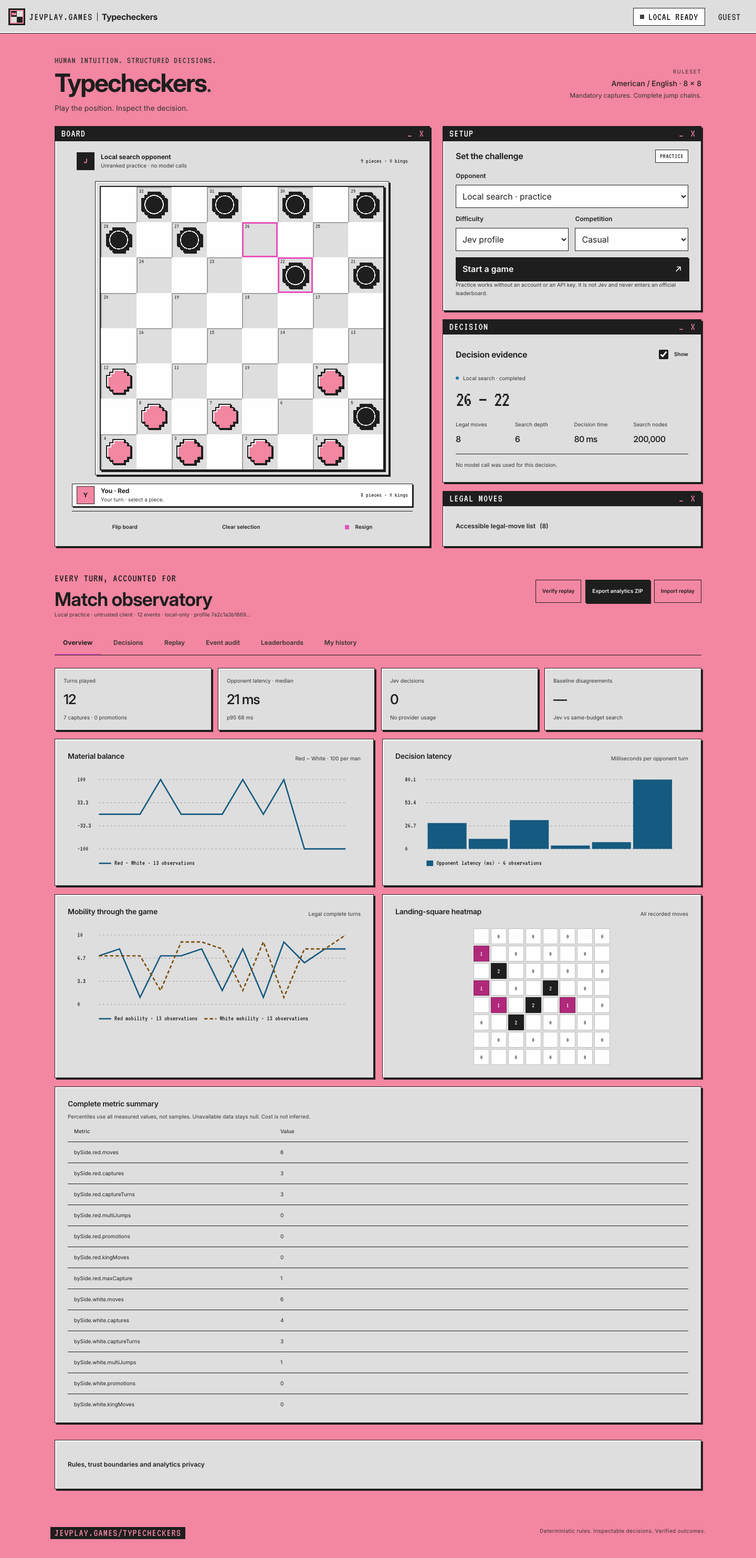
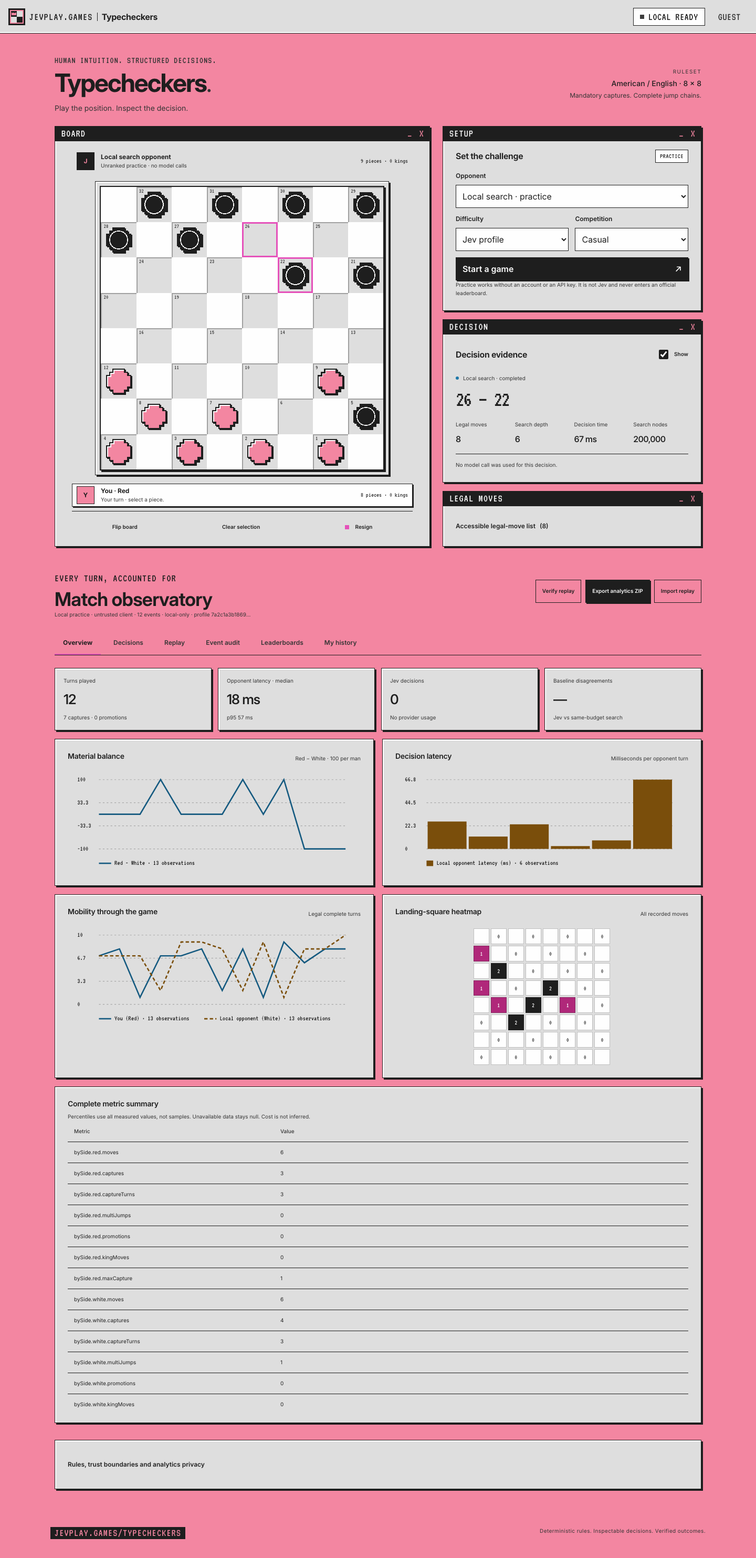
Use the canonical Jev and badges; key chart series to players
- Banner, social preview and OG card embed the canonical Jev robot (D15,
  shared/jev-robot.svg) byte-for-byte instead of three codex-drawn robots; re-rendered
- OG card kings are the game's own public/art red-king/dark-king SVGs, so the ink
  king reads as ink
- Result badges are the canonical D16 set, copied byte-for-byte
- Mobility chart: the human is always the solid --chart-human series and the
  opponent the dashed --chart-jev series, labelled You / Jev (or Local opponent)
  with the side in brackets; latency bars are the opponent's, so --chart-jev
- tests/charts.test.js covers the human-plays-White case; the D9 warning test now
  asserts exactly one warning per skipped entry
- Report previews retaken; SHA256SUMS regenerated

Changed region(s): [[0.7812, 0.4961, 0.9062, 0.5581], [0.5625, 0.5271, 0.75, 0.5581]]

diff --git a/public/game.css b/public/game.css
@@ -8,7 +8,7 @@
 @media(min-width:900px){#jv-controls #login,#jv-controls #logout{border:1px solid var(--line);background:var(--raised);border-radius:var(--radius-sm)}}
 .intro{display:flex;align-items:center;justify-content:space-between;gap:var(--s6);padding:var(--s4) 0 0}.eyebrow{font-family:var(--font-pixel);font-size:var(--fs-md);letter-spacing:var(--track-caps);font-weight:400;color:var(--ink);margin:0 0 var(--s2)}.title-dot{color:var(--ink)}.subtitle{color:var(--muted);margin:0;font-size:var(--fs-sm)}.intro-note{text-align:right;display:flex;flex-direction:column;font-size:var(--fs-xs);color:var(--muted);gap:var(--s1)}.intro-note strong{color:var(--text);font-size:var(--fs-sm);font-weight:500}.tiny-label{font-size:var(--fs-2xs);letter-spacing:.14em}h2{font-size:var(--fs-md);margin:0;font-weight:650;letter-spacing:-.02em}h3{font-size:var(--fs-sm);margin:0 0 var(--s2);font-weight:600}.arena{display:grid;grid-template-columns:minmax(0,1.45fr) minmax(290px,1fr);gap:var(--s5)}.board-panel{padding:var(--s4) var(--s5) var(--s3);min-width:0}.player-strip{display:flex;align-items:center;gap:var(--s3);margin-bottom:var(--s4)}.player-strip strong{display:block;font-size:var(--fs-xs)}.player-strip span:not(.avatar):not(.material-count){display:block;font-size:var(--fs-2xs);color:var(--muted)}.avatar{border:1px solid var(--line);width:34px;height:34px;display:grid;place-items:center;border-radius:var(--radius-sm);font-size:var(--fs-xs);font-weight:bold;flex:none}.opponent-avatar{color:var(--jev);background:color-mix(in srgb,var(--jev) 22%,var(--sunken))}.human-avatar{color:var(--human);background:color-mix(in srgb,var(--human) 22%,var(--sunken))}.material-count{margin-left:auto;color:var(--muted);font-size:var(--fs-2xs);font-family:var(--mono)}
 /* The board fits both axes: never wider than its column, never taller than the viewport remainder. */
-.board-frame{--fit-max:560px;--fit-reserve:250px;--fit-ratio:1;padding:var(--s2)}.board{display:grid;grid-template-columns:repeat(8,1fr);aspect-ratio:1;overflow:hidden;border-radius:0;border:2px solid var(--ink);box-shadow:var(--drop);width:100%;touch-action:manipulation}.board [role=row]{display:contents}.square{aspect-ratio:1;min-width:0;min-height:0;border:0;border-radius:0;padding:0;position:relative;display:grid;place-items:center;font-weight:400;container-type:inline-size}.square .number{position:absolute;left:5px;top:3px;font-size:clamp(6px,16cqw,9px);color:var(--muted);opacity:.8;line-height:1}.bottom{margin:var(--s4) 0 var(--s2)}.board-controls{display:flex;justify-content:space-between;border-top:1px solid var(--line);padding-top:var(--s2);gap:var(--s2);flex-wrap:wrap}.board-controls button{font-size:var(--fs-2xs);padding:var(--s2) var(--s2);min-height:var(--tap);border-color:transparent;flex:1 1 auto}.side-stack{display:flex;flex-direction:column;gap:var(--s4);min-width:0}.section-heading{display:flex;justify-content:space-between;align-items:center;gap:var(--s4);margin-bottom:var(--s4)}.setup label{margin-top:var(--s3)}.two-columns{display:grid;grid-template-columns:1fr 1fr;gap:var(--s3)}.small{font-size:var(--fs-2xs);line-height:1.65}.muted{color:var(--muted)}.toggle{display:flex;align-items:center;gap:var(--s2);font-size:var(--fs-2xs);margin:0;min-height:var(--tap)}.toggle input{accent-color:var(--accent);width:18px;height:18px}.decision-status{display:flex;gap:var(--s2);align-items:center;color:var(--muted);font-size:var(--fs-2xs)}.status-dot{width:6px;height:6px;background:var(--ok);border-radius:50%;flex:none}.status-dot.busy{animation:pulse 1s infinite}.decision-big{font-family:var(--mono);font-size:clamp(1.375rem,1rem + 1.6vw,2.0625rem);font-weight:500;letter-spacing:-.06em;margin:var(--s2) 0 var(--s4)}.metric-grid{display:grid;grid-template-columns:repeat(4,minmax(0,1fr));gap:var(--s3)}.metric-grid span{display:block;color:var(--muted);font-size:var(--fs-2xs);margin-bottom:var(--s2)}.metric-grid strong{display:block;font-size:clamp(1.25rem,1rem + 1vw,1.625rem);font-weight:550;letter-spacing:-.04em}.metric-grid small{display:block;color:var(--muted);font-size:var(--fs-2xs);margin-top:var(--s2)}.mini{grid-template-columns:repeat(4,1fr);gap:var(--s2)}.mini strong{font-size:var(--fs-md)}.mini span{font-size:var(--fs-2xs)}.factor-list{border-top:1px solid var(--line);margin-top:var(--s4);padding-top:var(--s3)}.factor-row{display:grid;grid-template-columns:minmax(72px,100px) 1fr 40px;gap:var(--s2);align-items:center;font-size:var(--fs-2xs);margin:var(--s2) 0}.factor-row meter{width:100%;height:7px;accent-color:var(--accent)}summary{cursor:pointer;min-height:var(--tap);display:flex;align-items:center;gap:var(--s2);font-size:var(--fs-xs);font-weight:600}.legal-panel{padding:var(--s4) var(--s5)}.legal-moves{display:flex;gap:var(--s2);flex-wrap:wrap;margin-top:var(--s3)}.legal-moves button{font:12px var(--mono);min-height:var(--tap)}.notice{padding:var(--s3) var(--s4);border:1px solid var(--ink);border-left:6px solid var(--warn);color:var(--ink);background:var(--paper);box-shadow:var(--drop-sm);border-radius:var(--radius-sm);font-size:var(--fs-xs)}.analytics-section{margin-top:var(--s5)}.analytics-heading{display:flex;justify-content:space-between;gap:var(--s4);align-items:center;flex-wrap:wrap}.analytics-heading h2{font-size:var(--fs-2xl)}.toolbar{display:flex;gap:var(--s2);align-items:center;flex-wrap:wrap}.toolbar button,.toolbar .button{font-size:var(--fs-2xs);min-height:var(--tap);padding:var(--s2) var(--s3)}.toolbar label{margin:0}.toolbar select{width:auto}.tabs{display:flex;gap:var(--s2);border-bottom:1px solid var(--line);margin:var(--s5) 0;overflow-x:auto}.tabs button{border:0;border-bottom:2px solid transparent;border-radius:0;background:none;padding:var(--s3) var(--s4);color:var(--muted);font-size:var(--fs-xs);white-space:nowrap;min-height:var(--tap)}.tabs button[aria-selected=true]{border-color:var(--magenta);color:var(--ink);font-weight:700}.summary-metrics .jv-panel{padding:var(--s4)}.chart-grid{display:grid;grid-template-columns:1fr 1fr;gap:var(--s4);margin:var(--s4) 0}.chart-panel{min-width:0}.chart{height:clamp(150px,22vh,190px);width:100%}.chart svg{width:100%;height:100%;overflow:visible}.chart .grid-line{stroke:var(--line-soft);stroke-dasharray:3 4}.chart .chart-line{fill:none;stroke:var(--chart-human);stroke-width:2.5}.chart .chart-line.secondary{stroke:var(--chart-jev);stroke-dasharray:6 4}.chart text{fill:var(--ink);font:10px var(--mono)}.chart .bar{fill:var(--chart-human)}.empty-chart{display:grid;place-items:center;height:100%;border:1px dashed var(--line);border-radius:var(--radius-sm);color:var(--muted);font-size:var(--fs-xs)}.heatmap{display:grid;grid-template-columns:repeat(8,1fr);gap:3px;width:100%;max-width:min(100%,260px);margin:auto}.heat-cell{aspect-ratio:1;display:grid;place-items:center;font:10px var(--mono);border-radius:0;background:var(--paper);color:var(--ink);border:1px solid var(--line-soft)}.heat-cell.blank{background:var(--sunken)}.heat-cell.heat-1{background:#FBE3EA}.heat-cell.heat-2{background:#F386A1}.heat-cell.heat-3{background:#B0287A;color:var(--paper)}.heat-cell.heat-4{background:#6A1F4C;color:var(--paper)}.heat-cell.heat-5{background:var(--ink);color:var(--paper)}.table-scroll{overflow:auto;max-height:min(70dvh,550px)}table{border-collapse:collapse;width:100%;font-size:var(--fs-2xs);text-align:left}th{color:var(--muted);font-weight:500;white-space:nowrap}th,td{padding:var(--s3) var(--s3);border-bottom:1px solid var(--line)}tr.selected td{background:#FBE3EA;color:var(--ink);font-weight:700}td.numeric{font-family:var(--mono)}td button{font-size:var(--fs-2xs);min-height:var(--tap);padding:4px var(--s2)}pre{font:11px/1.7 var(--mono);overflow:auto;max-height:min(60dvh,440px);white-space:pre-wrap;overflow-wrap:anywhere;background:var(--sunken);border:1px solid var(--line);padding:var(--s4);border-radius:var(--radius-sm)}#decision-select{max-width:270px}#event-filter{max-width:310px}.replay-layout{display:grid;grid-template-columns:minmax(0,380px) 1fr;gap:var(--s6);margin-top:var(--s4)}.readonly .square{pointer-events:none}.readonly .piece.king:before{font-size:clamp(12px,50cqw,22px)}input[type=range]{width:100%;accent-color:var(--accent);min-height:var(--tap)}.rules{margin-top:var(--s2)}.rules-grid{display:grid;grid-template-columns:repeat(3,1fr);gap:var(--s5);margin-top:var(--s4)}.rules p{font-size:var(--fs-xs);color:var(--muted)}footer{width:100%;max-width:var(--shell);margin:auto;padding:var(--s5) var(--s4) calc(2.25rem + var(--sa-b));display:flex;justify-content:space-between;gap:var(--s3);color:var(--muted);font-size:var(--fs-2xs);letter-spacing:.04em}[hidden]{display:none!important}@keyframes pulse{50%{opacity:.3}}
+.board-frame{--fit-max:560px;--fit-reserve:250px;--fit-ratio:1;padding:var(--s2)}.board{display:grid;grid-template-columns:repeat(8,1fr);aspect-ratio:1;overflow:hidden;border-radius:0;border:2px solid var(--ink);box-shadow:var(--drop);width:100%;touch-action:manipulation}.board [role=row]{display:contents}.square{aspect-ratio:1;min-width:0;min-height:0;border:0;border-radius:0;padding:0;position:relative;display:grid;place-items:center;font-weight:400;container-type:inline-size}.square .number{position:absolute;left:5px;top:3px;font-size:clamp(6px,16cqw,9px);color:var(--muted);opacity:.8;line-height:1}.bottom{margin:var(--s4) 0 var(--s2)}.board-controls{display:flex;justify-content:space-between;border-top:1px solid var(--line);padding-top:var(--s2);gap:var(--s2);flex-wrap:wrap}.board-controls button{font-size:var(--fs-2xs);padding:var(--s2) var(--s2);min-height:var(--tap);border-color:transparent;flex:1 1 auto}.side-stack{display:flex;flex-direction:column;gap:var(--s4);min-width:0}.section-heading{display:flex;justify-content:space-between;align-items:center;gap:var(--s4);margin-bottom:var(--s4)}.setup label{margin-top:var(--s3)}.two-columns{display:grid;grid-template-columns:1fr 1fr;gap:var(--s3)}.small{font-size:var(--fs-2xs);line-height:1.65}.muted{color:var(--muted)}.toggle{display:flex;align-items:center;gap:var(--s2);font-size:var(--fs-2xs);margin:0;min-height:var(--tap)}.toggle input{accent-color:var(--accent);width:18px;height:18px}.decision-status{display:flex;gap:var(--s2);align-items:center;color:var(--muted);font-size:var(--fs-2xs)}.status-dot{width:6px;height:6px;background:var(--ok);border-radius:50%;flex:none}.status-dot.busy{animation:pulse 1s infinite}.decision-big{font-family:var(--mono);font-size:clamp(1.375rem,1rem + 1.6vw,2.0625rem);font-weight:500;letter-spacing:-.06em;margin:var(--s2) 0 var(--s4)}.metric-grid{display:grid;grid-template-columns:repeat(4,minmax(0,1fr));gap:var(--s3)}.metric-grid span{display:block;color:var(--muted);font-size:var(--fs-2xs);margin-bottom:var(--s2)}.metric-grid strong{display:block;font-size:clamp(1.25rem,1rem + 1vw,1.625rem);font-weight:550;letter-spacing:-.04em}.metric-grid small{display:block;color:var(--muted);font-size:var(--fs-2xs);margin-top:var(--s2)}.mini{grid-template-columns:repeat(4,1fr);gap:var(--s2)}.mini strong{font-size:var(--fs-md)}.mini span{font-size:var(--fs-2xs)}.factor-list{border-top:1px solid var(--line);margin-top:var(--s4);padding-top:var(--s3)}.factor-row{display:grid;grid-template-columns:minmax(72px,100px) 1fr 40px;gap:var(--s2);align-items:center;font-size:var(--fs-2xs);margin:var(--s2) 0}.factor-row meter{width:100%;height:7px;accent-color:var(--accent)}summary{cursor:pointer;min-height:var(--tap);display:flex;align-items:center;gap:var(--s2);font-size:var(--fs-xs);font-weight:600}.legal-panel{padding:var(--s4) var(--s5)}.legal-moves{display:flex;gap:var(--s2);flex-wrap:wrap;margin-top:var(--s3)}.legal-moves button{font:12px var(--mono);min-height:var(--tap)}.notice{padding:var(--s3) var(--s4);border:1px solid var(--ink);border-left:6px solid var(--warn);color:var(--ink);background:var(--paper);box-shadow:var(--drop-sm);border-radius:var(--radius-sm);font-size:var(--fs-xs)}.analytics-section{margin-top:var(--s5)}.analytics-heading{display:flex;justify-content:space-between;gap:var(--s4);align-items:center;flex-wrap:wrap}.analytics-heading h2{font-size:var(--fs-2xl)}.toolbar{display:flex;gap:var(--s2);align-items:center;flex-wrap:wrap}.toolbar button,.toolbar .button{font-size:var(--fs-2xs);min-height:var(--tap);padding:var(--s2) var(--s3)}.toolbar label{margin:0}.toolbar select{width:auto}.tabs{display:flex;gap:var(--s2);border-bottom:1px solid var(--line);margin:var(--s5) 0;overflow-x:auto}.tabs button{border:0;border-bottom:2px solid transparent;border-radius:0;background:none;padding:var(--s3) var(--s4);color:var(--muted);font-size:var(--fs-xs);white-space:nowrap;min-height:var(--tap)}.tabs button[aria-selected=true]{border-color:var(--magenta);color:var(--ink);font-weight:700}.summary-metrics .jv-panel{padding:var(--s4)}.chart-grid{display:grid;grid-template-columns:1fr 1fr;gap:var(--s4);margin:var(--s4) 0}.chart-panel{min-width:0}.chart{height:clamp(150px,22vh,190px);width:100%}.chart svg{width:100%;height:100%;overflow:visible}.chart .grid-line{stroke:var(--line-soft);stroke-dasharray:3 4}.chart .chart-line{fill:none;stroke:var(--chart-human);stroke-width:2.5}.chart .chart-line.secondary{stroke:var(--chart-jev);stroke-dasharray:6 4}.chart text{fill:var(--ink);font:10px var(--mono)}.chart .bar{fill:var(--chart-human)}.chart .bar.secondary{fill:var(--chart-jev)}.empty-chart{display:grid;place-items:center;height:100%;border:1px dashed var(--line);border-radius:var(--radius-sm);color:var(--muted);font-size:var(--fs-xs)}.heatmap{display:grid;grid-template-columns:repeat(8,1fr);gap:3px;width:100%;max-width:min(100%,260px);margin:auto}.heat-cell{aspect-ratio:1;display:grid;place-items:center;font:10px var(--mono);border-radius:0;background:var(--paper);color:var(--ink);border:1px solid var(--line-soft)}.heat-cell.blank{background:var(--sunken)}.heat-cell.heat-1{background:#FBE3EA}.heat-cell.heat-2{background:#F386A1}.heat-cell.heat-3{background:#B0287A;color:var(--paper)}.heat-cell.heat-4{background:#6A1F4C;color:var(--paper)}.heat-cell.heat-5{background:var(--ink);color:var(--paper)}.table-scroll{overflow:auto;max-height:min(70dvh,550px)}table{border-collapse:collapse;width:100%;font-size:var(--fs-2xs);text-align:left}th{color:var(--muted);font-weight:500;white-space:nowrap}th,td{padding:var(--s3) var(--s3);border-bottom:1px solid var(--line)}tr.selected td{background:#FBE3EA;color:var(--ink);font-weight:700}td.numeric{font-family:var(--mono)}td button{font-size:var(--fs-2xs);min-height:var(--tap);padding:4px var(--s2)}pre{font:11px/1.7 var(--mono);overflow:auto;max-height:min(60dvh,440px);white-space:pre-wrap;overflow-wrap:anywhere;background:var(--sunken);border:1px solid var(--line);padding:var(--s4);border-radius:var(--radius-sm)}#decision-select{max-width:270px}#event-filter{max-width:310px}.replay-layout{display:grid;grid-template-columns:minmax(0,380px) 1fr;gap:var(--s6);margin-top:var(--s4)}.readonly .square{pointer-events:none}.readonly .piece.king:before{font-size:clamp(12px,50cqw,22px)}input[type=range]{width:100%;accent-color:var(--accent);min-height:var(--tap)}.rules{margin-top:var(--s2)}.rules-grid{display:grid;grid-template-columns:repeat(3,1fr);gap:var(--s5);margin-top:var(--s4)}.rules p{font-size:var(--fs-xs);color:var(--muted)}footer{width:100%;max-width:var(--shell);margin:auto;padding:var(--s5) var(--s4) calc(2.25rem + var(--sa-b));display:flex;justify-content:space-between;gap:var(--s3);color:var(--muted);font-size:var(--fs-2xs);letter-spacing:.04em}[hidden]{display:none!important}@keyframes pulse{50%{opacity:.3}}
 @media(min-width:1280px){.board-panel{padding:var(--s4) var(--s6) var(--s3)}}
 @media(max-width:899px){.arena{gap:var(--s4);grid-template-columns:minmax(0,1.2fr) minmax(240px,1fr)}.board-panel{padding:var(--s4)}.mini{grid-template-columns:1fr 1fr}.intro-note{display:none}.analytics-heading{align-items:flex-start;flex-direction:column}.metric-grid{gap:var(--s2)}.rules-grid{grid-template-columns:1fr}.board-controls button{padding:var(--s1);font-size:var(--fs-2xs)}}
 @media(max-width:600px){.arena{grid-template-columns:1fr}.side-stack{display:grid;grid-template-columns:1fr;gap:var(--s3)}.intro{padding:0}.board-frame{--fit-reserve:260px}.board-panel{padding:var(--s3)}.decision-big{font-size:var(--fs-num-sm)}.two-columns{grid-template-columns:1fr 1fr;gap:var(--s3)}.setup select{font-size:var(--fs-xs)}.side-stack .jv-panel{padding:var(--s4)}.side-stack h2{font-size:var(--fs-xs)}.setup .section-heading{flex-wrap:wrap;gap:var(--s1)}.setup .small{font-size:var(--fs-2xs)}.metric-grid.summary-metrics{grid-template-columns:1fr 1fr}.chart-grid{grid-template-columns:1fr}.replay-layout{grid-template-columns:1fr}.rules-grid{gap:var(--s2)}footer{display:block}footer span{display:block;margin-top:var(--s1)}.analytics-section{margin-top:var(--s4)}.section-heading{flex-wrap:wrap}.player-strip strong{font-size:var(--fs-xs)}}

diff --git a/assets/src/banner.html b/assets/src/banner.html
@@ -5,14 +5,14 @@
 @font-face{font-family:VT323;src:url('../../public/brand/vt323.woff2') format('woff2');font-display:block}
 *{box-sizing:border-box}html,body{margin:0;width:1280px;height:420px;overflow:hidden}body{color:#1E1E1E;font-family:VT323,'JetBrains Mono',monospace}.banner{position:relative;width:1280px;height:420px;overflow:hidden;background:#F386A1;isolation:isolate}.texture{position:absolute;inset:0;z-index:-1}.frame{position:absolute;inset:24px;border:1px solid #1E1E1E}.crop{position:absolute;width:14px;height:14px;border:solid #1E1E1E;border-width:0}.tl{top:12px;left:12px;border-width:1px 0 0 1px}.tr{top:12px;right:12px;border-width:1px 1px 0 0}.bl{bottom:12px;left:12px;border-width:0 0 1px 1px}.br{bottom:12px;right:12px;border-width:0 1px 1px 0}
 .copy{position:absolute;left:57px;top:57px;width:650px}.tag{display:inline-block;background:#1E1E1E;color:#F386A1;border:2px dotted #F386A1;outline:2px dotted #1E1E1E;padding:5px 12px;font-size:23px;line-height:25px;letter-spacing:1px}h1{font:700 92px/1.08 Inter,sans-serif;letter-spacing:-4.5px;margin:35px 0 20px}.subtitle{display:inline-block;margin:0;background:#1E1E1E;color:#FEFEFE;font-size:25px;line-height:31px;padding:6px 11px;white-space:nowrap}.chips{display:flex;gap:9px;margin-top:24px}.chip{font-size:23px;line-height:25px;padding:3px 9px;background:#DEDEDE;border:1px solid #1E1E1E;box-shadow:inset 0 0 0 2px #FEFEFE}.footer{position:absolute;left:58px;bottom:39px;font-size:18px;letter-spacing:1px}.footer span{margin-right:18px}
-.window{position:absolute;background:#DEDEDE;border:2px solid #1E1E1E;box-shadow:inset 0 0 0 2px #FEFEFE,3px 3px 0 #1E1E1E;padding:0 8px 8px}.titlebar{height:27px;background:#1E1E1E;color:#FEFEFE;display:flex;justify-content:space-between;align-items:center;margin:0 -8px 8px;padding:0 8px;font-size:21px;line-height:25px;letter-spacing:1px}.controls{letter-spacing:3px}.board-window{left:834px;top:58px;width:296px;z-index:2}.board{display:grid;grid-template-columns:repeat(8,1fr);grid-template-rows:repeat(8,1fr);width:272px;aspect-ratio:1;border:2px solid #1E1E1E}.square{display:flex;align-items:center;justify-content:center}.grey{background:#DEDEDE}.white{background:#FEFEFE}.piece{display:block;position:relative;width:25px;height:25px;background:#1E1E1E;clip-path:polygon(20% 0,80% 0,80% 12%,100% 12%,100% 80%,80% 80%,80% 100%,20% 100%,20% 88%,0 88%,0 20%,20% 20%)}.pink{background:#F386A1;box-shadow:inset 0 0 0 3px #1E1E1E}.black:after{content:'';position:absolute;inset:6px;border:1px solid #DEDEDE}.crown{position:absolute;left:5px;top:7px;width:15px;height:11px;background:#1E1E1E;clip-path:polygon(0 0,20% 0,20% 40%,40% 40%,40% 0,60% 0,60% 40%,80% 40%,80% 0,100% 0,100% 100%,0 100%)}.choice-window{left:650px;top:262px;width:236px;z-index:4}.choices{font-size:24px;line-height:27px;white-space:pre;margin:0;padding:0 4px}.selected{background:#E551BA;display:block;margin:0 -2px;padding:0 2px}.score-window{left:1080px;top:240px;width:164px;height:137px;z-index:3}.chart{width:138px;height:81px;display:block}.robot{position:absolute;left:1120px;top:94px;width:91px;height:141px;z-index:1}
+.window{position:absolute;background:#DEDEDE;border:2px solid #1E1E1E;box-shadow:inset 0 0 0 2px #FEFEFE,3px 3px 0 #1E1E1E;padding:0 8px 8px}.titlebar{height:27px;background:#1E1E1E;color:#FEFEFE;display:flex;justify-content:space-between;align-items:center;margin:0 -8px 8px;padding:0 8px;font-size:21px;line-height:25px;letter-spacing:1px}.controls{letter-spacing:3px}.board-window{left:834px;top:58px;width:296px;z-index:2}.board{display:grid;grid-template-columns:repeat(8,1fr);grid-template-rows:repeat(8,1fr);width:272px;aspect-ratio:1;border:2px solid #1E1E1E}.square{display:flex;align-items:center;justify-content:center}.grey{background:#DEDEDE}.white{background:#FEFEFE}.piece{display:block;position:relative;width:25px;height:25px;background:#1E1E1E;clip-path:polygon(20% 0,80% 0,80% 12%,100% 12%,100% 80%,80% 80%,80% 100%,20% 100%,20% 88%,0 88%,0 20%,20% 20%)}.pink{background:#F386A1;box-shadow:inset 0 0 0 3px #1E1E1E}.black:after{content:'';position:absolute;inset:6px;border:1px solid #DEDEDE}.crown{position:absolute;left:5px;top:7px;width:15px;height:11px;background:#1E1E1E;clip-path:polygon(0 0,20% 0,20% 40%,40% 40%,40% 0,60% 0,60% 40%,80% 40%,80% 0,100% 0,100% 100%,0 100%)}.choice-window{left:650px;top:262px;width:236px;z-index:4}.choices{font-size:24px;line-height:27px;white-space:pre;margin:0;padding:0 4px}.selected{background:#E551BA;display:block;margin:0 -2px;padding:0 2px}.score-window{left:1080px;top:240px;width:164px;height:137px;z-index:3}.chart{width:138px;height:81px;display:block}.robot{position:absolute;left:1112px;top:118px;width:120px;height:92px;z-index:1}
 </style></head><body>
 <main class="banner" aria-label="Typecheckers retro desktop with a checkers board, move choices, score chart, and Jev robot">
 <svg class="texture" width="1280" height="420" aria-hidden="true"><defs><pattern id="dots" width="6" height="6" patternUnits="userSpaceOnUse"><rect x="1" y="1" width="1" height="1" fill="#1E1E1E" opacity=".4"/></pattern><pattern id="dense" width="4" height="4" patternUnits="userSpaceOnUse"><rect width="1.5" height="1.5" fill="#1E1E1E" opacity=".4"/></pattern></defs><rect width="1280" height="420" fill="url(#dots)"/><circle cx="772" cy="91" r="58" fill="url(#dense)"/><circle cx="1202" cy="326" r="101" fill="url(#dense)"/><circle cx="36" cy="365" r="67" fill="url(#dense)"/></svg>
 <div class="frame"></div><i class="crop tl"></i><i class="crop tr"></i><i class="crop bl"></i><i class="crop br"></i>
 <section class="copy"><div class="tag">JEVPLAY.GAMES/TYPECHECKERS</div><h1>Typecheckers</h1><p class="subtitle">Jump, king, outplay Jev. Every move logged.</p><div class="chips"><span class="chip">+checkers</span><span class="chip">+typed choices</span><span class="chip">+replays</span><span class="chip">+analytics</span></div></section>
 <div class="footer"><span>01 / YOUR MOVE</span>typecheckers.jevplay.games</div>
-<svg class="robot" viewBox="0 0 91 141" aria-label="Jev pixel robot"><path fill="#1E1E1E" d="M40 0h12v12H40zM44 12h4v16h-4zM8 28h71v9h8v62h-8v9H8V99H0V37h8zM20 108h46v33H20z"/><path fill="#DEDEDE" d="M8 37h71v62H8zM28 116h30v25H28z"/><path fill="#1E1E1E" d="M21 52h13v13H21zM53 52h13v13H53zM29 81h29v6H29z"/><path fill="#F386A1" d="M12 73h12v9H12zM63 73h12v9H63zM36 121h14v12H36z"/></svg>
+<svg class="robot" viewBox="0 0 86 66" xmlns="http://www.w3.org/2000/svg" role="img" aria-label="Jev, a friendly boxy pixel robot" shape-rendering="crispEdges"><g fill="#1E1E1E"><path d="M40 2h8v6h-3v5h24v6h6v29h-7v12H53v5H33v-5H18V48h-7V19h6v-6h24V8h-1z"/><path d="M3 32h7v18H3zm73 0h7v18h-7z"/></g><path fill="#F386A1" d="M21 17h44v30H21zM24 51h38v7H24z"/><path fill="#DEDEDE" d="M25 22h36v20H25z"/><g fill="#1E1E1E"><path d="M30 25h6v7h-6zm20 0h6v7h-6zM36 35h14v4H36zM28 59h8v7h-8zm23 0h8v7h-8z"/></g></svg>
 <section class="window board-window" aria-label="Checkers board"><div class="titlebar"><span>BOARD</span><span class="controls">_ x</span></div><div class="board"><div class="square white"></div><div class="square grey"><i class="piece black"></i></div><div class="square white"></div><div class="square grey"><i class="piece black"></i></div><div class="square white"></div><div class="square grey"><i class="piece black"></i></div><div class="square white"></div><div class="square grey"><i class="piece black"></i></div><div class="square grey"><i class="piece black"></i></div><div class="square white"></div><div class="square grey"><i class="piece black"></i></div><div class="square white"></div><div class="square grey"><i class="piece black"></i></div><div class="square white"></div><div class="square grey"><i class="piece black"></i></div><div class="square white"></div><div class="square white"></div><div class="square grey"><i class="piece black"></i></div><div class="square white"></div><div class="square grey"><i class="piece black"></i></div><div class="square white"></div><div class="square grey"><i class="piece black"></i></div><div class="square white"></div><div class="square grey"><i class="piece black"></i></div><div class="square grey"></div><div class="square white"></div><div class="square grey"></div><div class="square white"></div><div class="square grey"></div><div class="square white"></div><div class="square grey"></div><div class="square white"></div><div class="square white"></div><div class="square grey"></div><div class="square white"></div><div class="square grey"></div><div class="square white"></div><div class="square grey"></div><div class="square white"></div><div class="square grey"></div><div class="square grey"><i class="piece pink"></i></div><div class="square white"></div><div class="square grey"><i class="piece pink"><b class="crown"></b></i></div><div class="square white"></div><div class="square grey"><i class="piece pink"></i></div><div class="square white"></div><div class="square grey"><i class="piece pink"></i></div><div class="square white"></div><div class="square white"></div><div class="square grey"><i class="piece pink"></i></div><div class="square white"></div><div class="square grey"><i class="piece pink"></i></div><div class="square white"></div><div class="square grey"><i class="piece pink"></i></div><div class="square white"></div><div class="square grey"><i class="piece pink"></i></div><div class="square grey"><i class="piece pink"></i></div><div class="square white"></div><div class="square grey"><i class="piece pink"></i></div><div class="square white"></div><div class="square grey"><i class="piece pink"></i></div><div class="square white"></div><div class="square grey"><i class="piece pink"></i></div><div class="square white"></div></div></section>
 <section class="window choice-window"><div class="titlebar"><span>CHOICE</span><span class="controls">_ x</span></div><div class="choices"><span class="selected">[x] 22-17  0.61</span><div>[ ] 23-19  0.27</div><div>[ ] 24-20  0.12</div></div></section>
 <section class="window score-window"><div class="titlebar"><span>SCORE</span><span class="controls">_ x</span></div><svg class="chart" viewBox="0 0 138 81" aria-label="Stepped score bar chart"><path d="M5 3v73h129" fill="none" stroke="#1E1E1E"/><path d="M13 61h17v11H13zM34 50h17v22H34zM55 39h17v33H55zM76 27h17v45H76zM97 15h17v57H97zM118 5h15v67h-15z" fill="#1E1E1E"/></svg></section>

diff --git a/assets/src/social.html b/assets/src/social.html
@@ -3,7 +3,7 @@
 <style>
 @font-face{font-family:Inter;src:url('../../public/brand/inter-var.woff2') format('woff2');font-weight:100 900;font-display:block}
 @font-face{font-family:VT323;src:url('../../public/brand/vt323.woff2') format('woff2');font-weight:400;font-display:block}
-*{box-sizing:border-box}html,body{margin:0;width:1280px;height:640px;overflow:hidden}body{background:#F386A1;color:#1E1E1E;font-family:VT323,'JetBrains Mono',monospace}main{position:relative;width:1280px;height:640px;isolation:isolate}.texture{position:absolute;inset:0;z-index:-1}.frame{position:absolute;inset:31px 41px;border:1px solid #1E1E1E}.tag{position:absolute;left:66px;top:59px;margin:0;padding:9px 13px;background:#1E1E1E;color:#F386A1;border:2px dotted #F386A1;outline:1px solid #1E1E1E;font-size:25px;letter-spacing:1px}.copy{position:absolute;left:66px;top:190px;width:640px}h1{font:700 90px/1.08 Inter,sans-serif;letter-spacing:-4.5px;margin:0 0 26px}.tagline{font-size:32px;line-height:1.13;margin:0}.rule{height:3px;width:68px;background:#1E1E1E;margin-top:30px}footer{position:absolute;left:66px;bottom:69px;font-size:25px;line-height:1.3}footer p{margin:0}.window{position:absolute;left:733px;top:131px;width:334px;background:#DEDEDE;border:3px solid #1E1E1E;box-shadow:3px 3px 0 #1E1E1E,inset 0 0 0 2px #FEFEFE}.bar{height:35px;background:#1E1E1E;color:#FEFEFE;display:flex;align-items:center;justify-content:space-between;padding:0 10px;font-size:25px;letter-spacing:1px}.board{display:block;width:304px;height:304px;margin:12px;border:2px solid #1E1E1E}.status{border-top:1px solid #1E1E1E;margin:0 12px 10px;padding-top:6px;font-size:21px;display:flex;justify-content:space-between}.robot{position:absolute;left:1086px;top:279px;width:132px;height:204px}.robot-label{position:absolute;left:1090px;top:497px;width:124px;text-align:center;font-size:23px;margin:0;border-top:2px solid #1E1E1E;padding-top:8px}
+*{box-sizing:border-box}html,body{margin:0;width:1280px;height:640px;overflow:hidden}body{background:#F386A1;color:#1E1E1E;font-family:VT323,'JetBrains Mono',monospace}main{position:relative;width:1280px;height:640px;isolation:isolate}.texture{position:absolute;inset:0;z-index:-1}.frame{position:absolute;inset:31px 41px;border:1px solid #1E1E1E}.tag{position:absolute;left:66px;top:59px;margin:0;padding:9px 13px;background:#1E1E1E;color:#F386A1;border:2px dotted #F386A1;outline:1px solid #1E1E1E;font-size:25px;letter-spacing:1px}.copy{position:absolute;left:66px;top:190px;width:640px}h1{font:700 90px/1.08 Inter,sans-serif;letter-spacing:-4.5px;margin:0 0 26px}.tagline{font-size:32px;line-height:1.13;margin:0}.rule{height:3px;width:68px;background:#1E1E1E;margin-top:30px}footer{position:absolute;left:66px;bottom:69px;font-size:25px;line-height:1.3}footer p{margin:0}.window{position:absolute;left:733px;top:131px;width:334px;background:#DEDEDE;border:3px solid #1E1E1E;box-shadow:3px 3px 0 #1E1E1E,inset 0 0 0 2px #FEFEFE}.bar{height:35px;background:#1E1E1E;color:#FEFEFE;display:flex;align-items:center;justify-content:space-between;padding:0 10px;font-size:25px;letter-spacing:1px}.board{display:block;width:304px;height:304px;margin:12px;border:2px solid #1E1E1E}.status{border-top:1px solid #1E1E1E;margin:0 12px 10px;padding-top:6px;font-size:21px;display:flex;justify-content:space-between}.robot{position:absolute;left:1066px;top:350px;width:172px;height:132px}.robot-label{position:absolute;left:1090px;top:497px;width:124px;text-align:center;font-size:23px;margin:0;border-top:2px solid #1E1E1E;padding-top:8px}
 </style></head><body><main aria-label="Typecheckers social card">
 <svg class="texture" width="1280" height="640" aria-hidden="true"><defs><pattern id="dots" width="6" height="6" patternUnits="userSpaceOnUse"><circle cx="1" cy="1" r=".7" fill="#1E1E1E"/></pattern><pattern id="dense" width="6" height="6" patternUnits="userSpaceOnUse"><circle cx="1" cy="1" r="1.25" fill="#1E1E1E"/></pattern></defs><rect width="1280" height="640" fill="url(#dots)" opacity=".4"/><g fill="url(#dense)" opacity=".4"><circle cx="1239" cy="94" r="119"/><circle cx="775" cy="620" r="114"/><circle cx="15" cy="413" r="64"/></g><path d="M16 43V16H43M1237 16H1264V43M16 597V624H43M1237 624H1264V597" fill="none" stroke="#1E1E1E" stroke-width="1"/></svg>
 <div class="frame" aria-hidden="true"></div><p class="tag">JEVPLAY.GAMES/TYPECHECKERS</p>
@@ -26,6 +26,6 @@
 <g transform="translate(180 300)"><use href="#piece" fill="#F386A1"/><path d="M-7 7H7" stroke="#1E1E1E" stroke-width="2"/></g>
 <g transform="translate(260 140)"><use href="#piece" fill="#F386A1"/><use href="#crown" fill="#1E1E1E"/></g>
 </svg><p class="status"><span>YOUR MOVE</span><span>08 × 08</span></p></section>
-<svg class="robot" viewBox="0 0 44 68" role="img" aria-label="Jev robot in flat pixel style" shape-rendering="crispEdges"><path d="M20 4H24V12H20ZM8 12H36V16H40V36H36V40H8V36H4V16H8ZM0 21H4V31H0ZM40 21H44V31H40ZM10 42H34V58H10ZM4 44H10V54H4ZM0 50H6V60H0ZM34 44H40V54H34ZM38 50H44V60H38ZM12 58H18V64H12ZM26 58H32V64H26ZM8 64H20V68H8ZM24 64H36V68H24Z" fill="#1E1E1E"/><path d="M18 0H26V6H18Z" fill="#E551BA"/><path d="M8 16H36V36H8Z" fill="#DEDEDE"/><path d="M10 18H34V20H10Z" fill="#FEFEFE"/><path d="M11 22H18V28H11ZM26 22H33V28H26ZM16 31H28V33H16Z" fill="#1E1E1E"/><path d="M12 23H15V25H12ZM27 23H30V25H27ZM14 44H30V54H14Z" fill="#F386A1"/><path d="M18 46H26V48H18ZM20 48H24V52H20Z" fill="#1E1E1E"/></svg>
+<svg class="robot" viewBox="0 0 86 66" xmlns="http://www.w3.org/2000/svg" role="img" aria-label="Jev, a friendly boxy pixel robot" shape-rendering="crispEdges"><g fill="#1E1E1E"><path d="M40 2h8v6h-3v5h24v6h6v29h-7v12H53v5H33v-5H18V48h-7V19h6v-6h24V8h-1z"/><path d="M3 32h7v18H3zm73 0h7v18h-7z"/></g><path fill="#F386A1" d="M21 17h44v30H21zM24 51h38v7H24z"/><path fill="#DEDEDE" d="M25 22h36v20H25z"/><g fill="#1E1E1E"><path d="M30 25h6v7h-6zm20 0h6v7h-6zM36 35h14v4H36zM28 59h8v7h-8zm23 0h8v7h-8z"/></g></svg>
 <p class="robot-label">JEV / READY</p><footer><p>typecheckers.jevplay.games</p><p>github.com/jevplays-games/jev-typecheckers</p></footer>
 </main></body></html>

diff --git a/public/game.js b/public/game.js
@@ -1,7 +1,7 @@
 import { createInitialState,getLegalActions,getOutcome,applyAction,coords,squareAt,owner,isKing,otherSide,serialize } from './games/checkers/rules.js';
 import { profileFor,features } from './games/checkers/strategy.js';
 import { hashState,sha256,sealEvent,verifyReplay,GAME_ID,REPLAY_FORMAT } from './lib/audit.js';
-import { analyzeReplay,toCSV,flatEvents } from './lib/analytics.js';
+import { analyzeReplay,toCSV,flatEvents,mobilitySeries,opponentName } from './lib/analytics.js';
 import { makeZip } from './lib/zip.js';
 import { ACTIVE_KEY,HISTORY_KEY,LAUNCH_KEY,migrateStorage } from './lib/storage.js';
 const $=id=>document.getElementById(id),number=n=>Number.isFinite(n)?Intl.NumberFormat(undefined,{maximumFractionDigits:1}).format(n):'—';
@@ -197,10 +197,10 @@ function chart(target,series,label,bars=false){
   for(let i=0;i<4;i++){const value=min+(max-min)*i/3;svg.append(svgNode('line',{x1:left,x2:left+width,y1:y(value),y2:y(value),class:'grid-line'}),svgNode('text',{x:3,y:y(value)+3},number(value)));}
   for(const [s,entry]of series.entries()){
     const n=entry.values.length,x=i=>left+(n>1?i/(n-1):.5)*width;
-    if(bars){const step=width/Math.max(1,n);entry.values.forEach((v,i)=>{const bar=svgNode('rect',{x:left+i*step+2,y:y(v),width:Math.max(1,step-4),height:Math.max(1,y(0)-y(v)),class:'bar'});bar.append(svgNode('title',{},`${entry.name} ${i+1}: ${number(v)}`));svg.append(bar);});}
-    else{const p=entry.values.map((v,i)=>`${i?'L':'M'}${x(i)},${y(v)}`).join(' ');svg.append(svgNode('path',{d:p,class:`chart-line${s?' secondary':''}`}));if(n===1)svg.append(svgNode('circle',{cx:x(0),cy:y(entry.values[0]),r:3,class:'bar'}));}
+    if(bars){const step=width/Math.max(1,n);entry.values.forEach((v,i)=>{const bar=svgNode('rect',{x:left+i*step+2,y:y(v),width:Math.max(1,step-4),height:Math.max(1,y(0)-y(v)),class:`bar${entry.opponent?' secondary':''}`});bar.append(svgNode('title',{},`${entry.name} ${i+1}: ${number(v)}`));svg.append(bar);});}
+    else{const p=entry.values.map((v,i)=>`${i?'L':'M'}${x(i)},${y(v)}`).join(' ');svg.append(svgNode('path',{d:p,class:`chart-line${entry.opponent?' secondary':''}`}));if(n===1)svg.append(svgNode('circle',{cx:x(0),cy:y(entry.values[0]),r:3,class:`bar${entry.opponent?' secondary':''}`}));}
     // Legend: a swatch drawn like its series (solid, dashed or a bar) so colour is not the only cue; the label is ink.
-    const lx=left+s*190;svg.append(bars?svgNode('rect',{x:lx,y:158,width:12,height:10,class:'bar legend-swatch'}):svgNode('line',{x1:lx,x2:lx+22,y1:163,y2:163,class:`chart-line legend-swatch${s?' secondary':''}`}),svgNode('text',{x:lx+(bars?18:28),y:166},`${entry.name} · ${entry.values.length} observations`));
+    const lx=left+s*190;svg.append(bars?svgNode('rect',{x:lx,y:158,width:12,height:10,class:`bar legend-swatch${entry.opponent?' secondary':''}`}):svgNode('line',{x1:lx,x2:lx+22,y1:163,y2:163,class:`chart-line legend-swatch${entry.opponent?' secondary':''}`}),svgNode('text',{x:lx+(bars?18:28),y:166},`${entry.name} · ${entry.values.length} observations`));
   }target.append(svg);
 }
 function renderAnalytics(){
@@ -213,8 +213,8 @@ function renderAnalytics(){
   $('metric-calls').textContent=number(a.jev.decisions);$('metric-tokens').textContent=a.jev.calls?`${number(a.jev.inputTokens)} input tokens · ${a.jev.calls} attempts`:'No provider usage';
   $('metric-changed').textContent=a.jev.changedRate===null?'—':`${(100*a.jev.changedRate).toFixed(1)}%`;
   chart($('material-chart'),[{name:'Red − White',values:a.points.map(p=>p.materialBalance)}],'Material balance over all recorded positions');
-  chart($('latency-chart'),[{name:'Opponent latency (ms)',values:a.moves.filter(m=>m.actor==='opponent').map(m=>m.totalMs).filter(Number.isFinite)}],'Opponent decision latency in milliseconds',true);
-  chart($('mobility-chart'),[{name:'Red mobility',values:a.points.map(p=>p.redMobility)},{name:'White mobility',values:a.points.map(p=>p.whiteMobility)}],'Red and white legal moves over all recorded positions');
+  chart($('latency-chart'),[{name:`${opponentName(r.manifest.opponent)} latency (ms)`,opponent:true,values:a.moves.filter(m=>m.actor==='opponent').map(m=>m.totalMs).filter(Number.isFinite)}],'Opponent decision latency in milliseconds',true);
+  chart($('mobility-chart'),mobilitySeries(a.points,r.manifest.humanSide,r.manifest.opponent),'Your and your opponent\'s legal moves over all recorded positions');
   const heat=$('heatmap'),max=Math.max(1,...a.heatmaps.landings);heat.replaceChildren();
   for(let row=0;row<8;row++)for(let col=0;col<8;col++){const sq=squareAt(row,col),count=sq?a.heatmaps.landings[sq-1]:0,cell=element('div',sq?String(count):'',`heat-cell ${sq?`heat-${count?Math.max(1,Math.ceil(count/max*5)):0}`:'blank'}`);if(sq){cell.title=`Square ${sq}: ${count} landings`;cell.setAttribute('aria-label',cell.title);}heat.append(cell);}
   const metricRows=[];

diff --git a/assets/src/og.html b/assets/src/og.html
@@ -23,7 +23,7 @@ h1{font-family:Inter,sans-serif;font-size:92px;line-height:1.1;font-weight:700;l
 .titlebar{height:37px;margin:0 -16px 16px;padding:3px 11px;background:#1E1E1E;color:#FEFEFE;display:flex;justify-content:space-between;align-items:center;font-size:26px;line-height:1}
 .board{display:block;width:360px;height:360px;border:2px solid #1E1E1E}
 .mascot{position:absolute;left:66px;top:402px;display:flex;align-items:center;gap:15px;background:#F386A1;padding-right:16px;font-size:24px}
-.mascot svg{width:66px;height:78px}.highlight{display:inline-block;width:10px;height:10px;background:#E551BA;margin-right:8px}
+.mascot svg{width:86px;height:66px}.highlight{display:inline-block;width:10px;height:10px;background:#E551BA;margin-right:8px}
 </style>
 </head>
 <body>
@@ -43,12 +43,7 @@ h1{font-family:Inter,sans-serif;font-size:92px;line-height:1.1;font-weight:700;l
  <p class="tagline">Jump, king, outplay Jev.<br>Every move logged.</p>
 </main>
 <div class="mascot">
- <svg viewBox="0 0 66 78" role="img" aria-label="Jev pixel robot" shape-rendering="crispEdges">
-  <path fill="#1E1E1E" d="M30 0h6v12h18v6h6v30h-6v6H42v6h12v12h-6v6H36V66h-6v12H18v-6h-6V60h12v-6H12v-6H6V18h6v-6h18Z"/>
-  <path fill="#DEDEDE" d="M12 18h42v30H12Z"/>
-  <path fill="#1E1E1E" d="M18 24h12v12H18Zm18 0h12v12H36ZM24 42h18v6H24Z"/>
-  <path fill="#F386A1" d="M18 24h6v6h-6Zm18 0h6v6h-6ZM24 60h18v6H24Z"/>
- </svg>
+ <svg class="robot" viewBox="0 0 86 66" xmlns="http://www.w3.org/2000/svg" role="img" aria-label="Jev, a friendly boxy pixel robot" shape-rendering="crispEdges"><g fill="#1E1E1E"><path d="M40 2h8v6h-3v5h24v6h6v29h-7v12H53v5H33v-5H18V48h-7V19h6v-6h24V8h-1z"/><path d="M3 32h7v18H3zm73 0h7v18h-7z"/></g><path fill="#F386A1" d="M21 17h44v30H21zM24 51h38v7H24z"/><path fill="#DEDEDE" d="M25 22h36v20H25z"/><g fill="#1E1E1E"><path d="M30 25h6v7h-6zm20 0h6v7h-6zM36 35h14v4H36zM28 59h8v7h-8zm23 0h8v7h-8z"/></g></svg>
  <span><span class="highlight"></span>JEV IS READY.</span>
 </div>
 <section class="window" aria-label="Board window">
@@ -56,23 +51,11 @@ h1{font-family:Inter,sans-serif;font-size:92px;line-height:1.1;font-weight:700;l
  <svg class="board" viewBox="0 0 352 352" role="img" aria-label="Pink and ink kings with stepped pixel crowns on a grey and paper checkerboard" shape-rendering="crispEdges">
   <defs>
    <pattern id="squares" width="88" height="88" patternUnits="userSpaceOnUse"><path fill="#FEFEFE" d="M0 0h88v88H0Z"/><path fill="#DEDEDE" d="M0 0h44v44H0Zm44 44h44v44H44Z"/></pattern>
-   <path id="disc" d="M-10-18H10V-14H14V-10H18V10H14V14H10V18H-10V14H-14V10H-18V-10H-14V-14H-10Z"/>
-   <path id="disc-inset" d="M-10-14H10V-10H14V10H10V14H-10V10H-14V-10H-10Z"/>
-   <path id="disc-core" d="M-6-10H6V-6H10V6H6V10H-6V6H-10V-6H-6Z"/>
-   <path id="crown" d="M-10-6H-6V-2H-2V-8H2V-2H6V-6H10V6H-10Z"/>
   </defs>
   <path fill="url(#squares)" d="M0 0h352v352H0Z"/>
-  <g transform="translate(242 66)">
-   <use href="#disc" fill="#1E1E1E"/>
-   <use href="#disc-inset" fill="#F386A1"/>
-   <use href="#crown" fill="#1E1E1E"/>
-  </g>
-  <g transform="translate(110 198)">
-   <use href="#disc" fill="#1E1E1E"/>
-   <use href="#disc-inset" fill="#FEFEFE"/>
-   <use href="#disc-core" fill="#1E1E1E"/>
-   <path fill="#FEFEFE" d="M-6-4H-4V-2H-2V-6H2V-2H4V-4H6V4H-6Z"/>
-  </g>
+  <!-- The kings are the game's own piece art (public/art), so the card matches the board. -->
+  <image href="../../public/art/red-king.svg" x="222" y="46" width="40" height="40"/>
+  <image href="../../public/art/dark-king.svg" x="90" y="178" width="40" height="40"/>
  </svg>
 </section>
 <p class="domain">typecheckers.jevplay.games</p>

diff --git a/tests/rename.test.js b/tests/rename.test.js
@@ -100,11 +100,16 @@ test('storage migration keeps newer data, drops the stale key, and survives bloc
 // Orchestrator rule D9: hostile or malformed LEGACY_APP_ORIGINS entries are skipped, never admitted, never a 500.
 import { appOrigins } from '../server/util.js';
 const HOSTILE=['https://user:pw@evil.example',`https://evil.example#@checkers.jevplay.games`,'https://evil.example/path','https://evil.example?q=1','https://*.jevplay.games','not a url','javascript:alert(1)','http://checkers.jevplay.games'];
-test('D9: only bare origins are admitted from LEGACY_APP_ORIGINS',()=>{
- const env={APP_ENV:'production',APP_ORIGIN:NEW,LEGACY_APP_ORIGINS:[...HOSTILE,`${OLD}/`].join(',')};
- const warn=console.warn;let warnings=0;console.warn=()=>warnings++;
- try{assert.deepEqual(appOrigins(env),[NEW,OLD]);}finally{console.warn=warn;}
- assert(warnings<=HOSTILE.length);
+test('D9: only bare origins are admitted from LEGACY_APP_ORIGINS, each skipped entry warned exactly once',()=>{
+ // Fresh entries per run: warnings are deduplicated per distinct entry for the life of the process.
+ const tag=crypto.randomUUID().slice(0,8),hostile=HOSTILE.map(e=>e.replace('evil',`evil-${tag}`).replace('*.jevplay',`*.${tag}.jevplay`).replace('not a url',`not a url ${tag}`).replace('alert(1)',`alert('${tag}')`).replace('http://checkers',`http://${tag}.checkers`));
+ assert.equal(new Set(hostile).size,HOSTILE.length);
+ const env={APP_ENV:'production',APP_ORIGIN:NEW,LEGACY_APP_ORIGINS:[...hostile,`${OLD}/`].join(',')};
+ const warn=console.warn,seen=[];console.warn=line=>seen.push(JSON.parse(line));
+ try{assert.deepEqual(appOrigins(env),[NEW,OLD]);assert.deepEqual(appOrigins(env),[NEW,OLD]);}finally{console.warn=warn;}
+ assert.equal(seen.length,hostile.length);
+ assert.deepEqual(seen.map(w=>w.entry).sort(),[...hostile].sort());
+ assert(seen.every(w=>w.kind==='legacy_origin_skipped'));
 });
 for(const entry of HOSTILE)test(`D9: legacy entry ${entry} admits no evil host and keeps both real hosts working`,async()=>{
  const warn=console.warn;console.warn=()=>{};

diff --git a/tests/charts.test.js b/tests/charts.test.js
@@ -1,0 +1,18 @@
+// Chart series follow the player, not the piece colour (orchestrator decision D8).
+import test from 'node:test';import assert from 'node:assert/strict';
+import { mobilitySeries,opponentName } from '../public/lib/analytics.js';
+const points=[{redMobility:7,whiteMobility:7},{redMobility:8,whiteMobility:6},{redMobility:5,whiteMobility:9}];
+test('human playing Red: You is the first, solid series; Jev the dashed opponent series',()=>{
+ const [you,jev]=mobilitySeries(points,'red','jev');
+ assert.deepEqual(you,{name:'You (Red)',values:[7,8,5],opponent:false});
+ assert.deepEqual(jev,{name:'Jev (White)',values:[7,6,9],opponent:true});
+});
+test('human playing White (every other ranked match): You still solid, Jev still dashed',()=>{
+ const [you,jev]=mobilitySeries(points,'white','jev');
+ assert.deepEqual(you,{name:'You (White)',values:[7,6,9],opponent:false});
+ assert.deepEqual(jev,{name:'Jev (Red)',values:[7,8,5],opponent:true});
+});
+test('local practice is never labelled Jev',()=>{
+ assert.equal(opponentName('local'),'Local opponent');
+ assert.equal(mobilitySeries(points,'red','local')[1].name,'Local opponent (White)');
+});

diff --git a/public/lib/analytics.js b/public/lib/analytics.js
@@ -102,3 +102,12 @@ export function toCSV(rows) {
 }
 export function flatEvents(replay) { return replay.events.map(e=>({seq:e.seq,at:e.at,kind:e.kind,actor:e.actor,
   action:e.action?.id||'',preHash:e.preHash,postHash:e.postHash,previousHash:e.previousHash,eventHash:e.eventHash,evidence:e.evidence})); }
+// Chart series are keyed to players, not piece colours (orchestrator decision D8): the human is always the
+// solid --chart-human series and the opponent always the dashed --chart-jev one, whichever side each plays.
+const sideName=side=>side==='red'?'Red':'White';
+export const opponentName=opponent=>opponent==='jev'?'Jev':'Local opponent';
+export function mobilitySeries(points,humanSide,opponent){
+  const other=humanSide==='red'?'white':'red';
+  return [{name:`You (${sideName(humanSide)})`,values:points.map(p=>p[`${humanSide}Mobility`]),opponent:false},
+    {name:`${opponentName(opponent)} (${sideName(other)})`,values:points.map(p=>p[`${other}Mobility`]),opponent:true}];
+}
